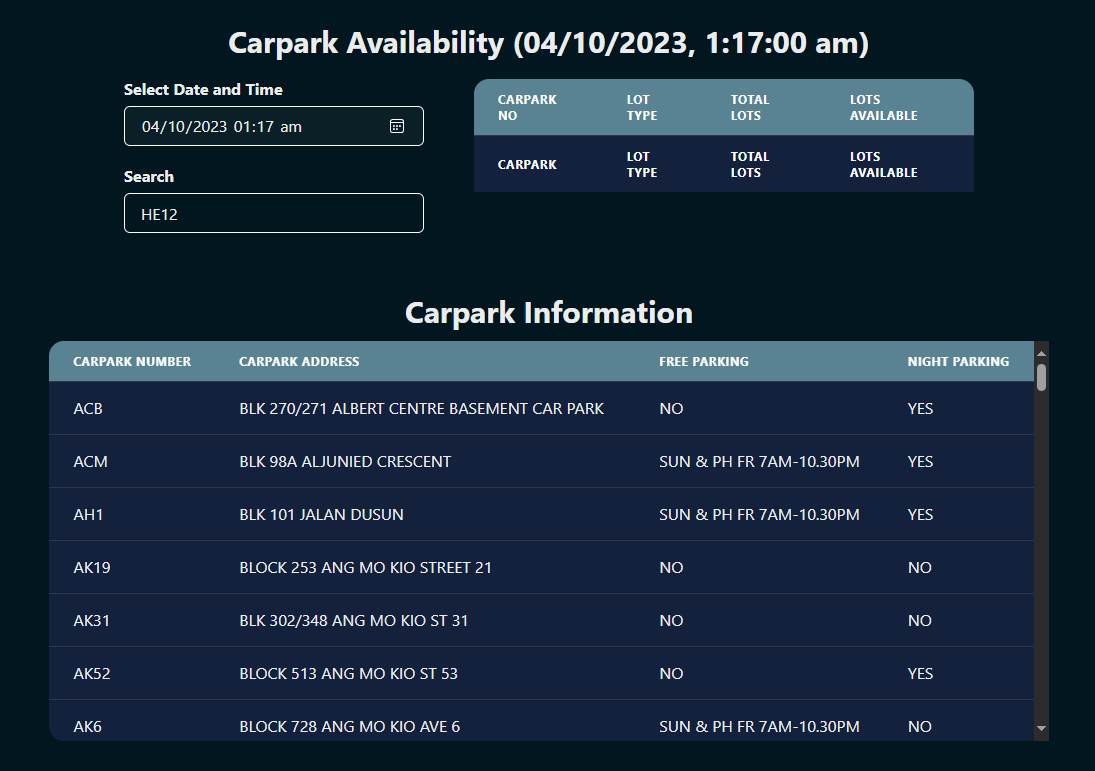
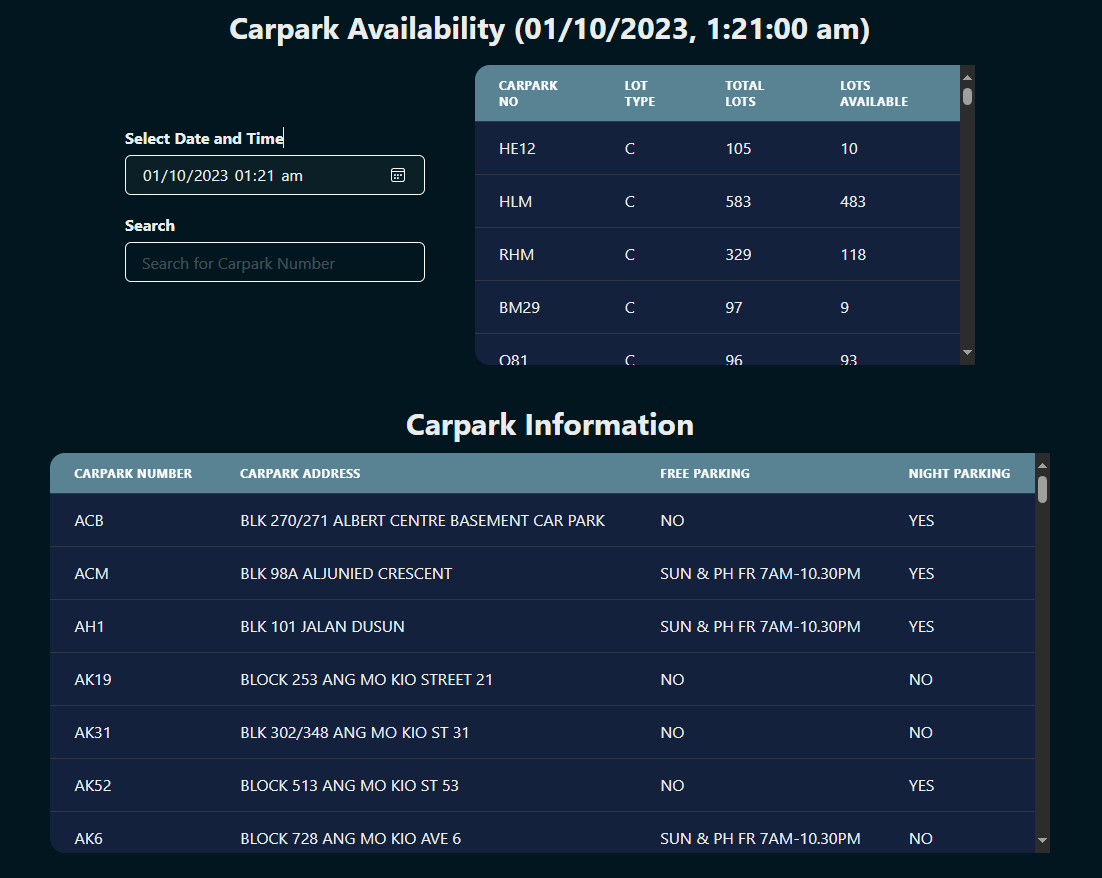
added photos

diff --git a/README.md b/README.md
@@ -20,7 +20,11 @@ User able to get another table with Carpark Address, Free Parking and Night Park
 
 ## UPDATE - Sep 2023:
 
-User is now able to search via <Table name> to find the Lots Available faster
+User is now able to search via the Carpark Number to find the Lots Available faster
+
+![main_v3]https://github.com/Iamben0/carpark-webapp/blob/master/pics/main_v3.PNG?raw=true
+
+
 ## TODO:
 
 - Add the carpark address that matches with the carpark No :heavy_check_mark:
